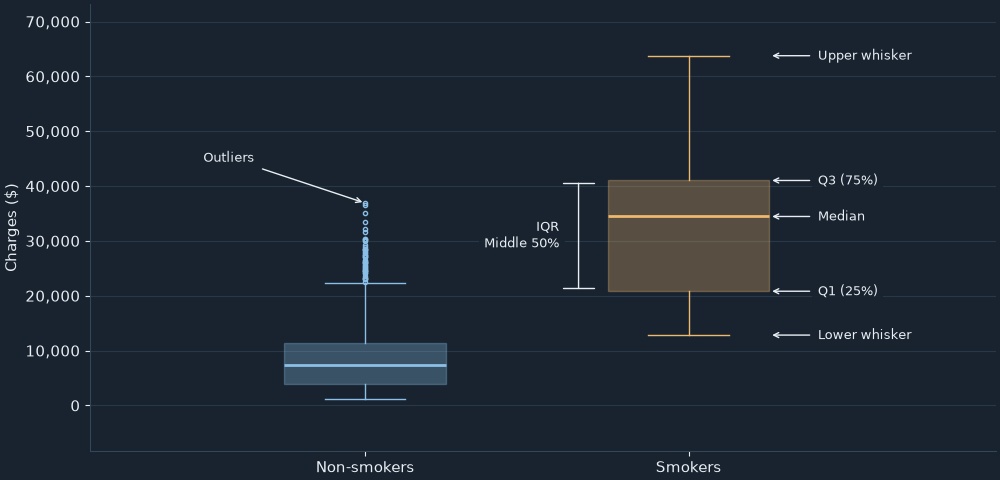
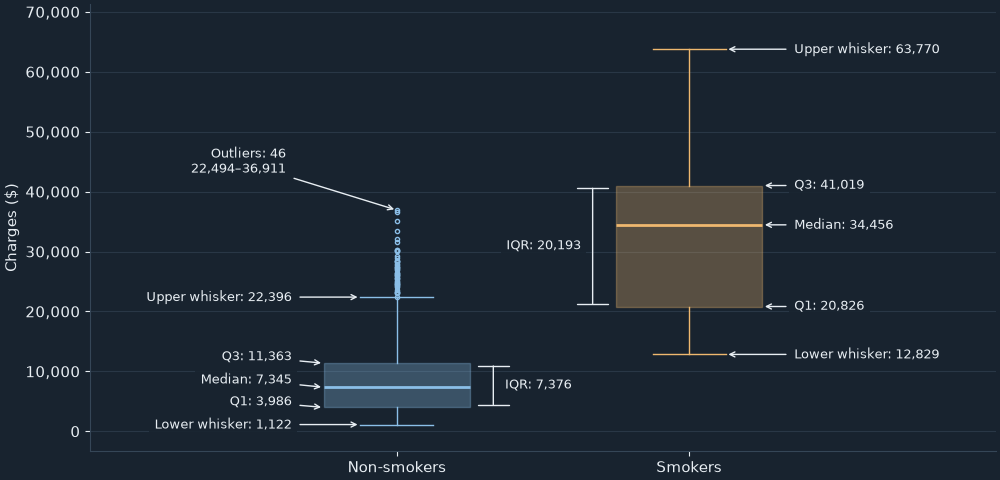
Show numeric boxplot values for both smoking groups

diff --git a/src/report.py b/src/report.py
@@ -143,38 +143,51 @@ def report_chart(frame, kind, dark=True):
                     )
                     q1, median, q3 = values.quantile([0.25, 0.5, 0.75])
                     plotted.append((q3 - q1, i, q1, median, q3, artists))
-            _, position, q1, median, q3, artists = max(plotted, key=lambda item: item[0])
-            low = artists['whiskers'][0].get_ydata()[-1]
-            high = artists['whiskers'][1].get_ydata()[-1]
             span = max(float(frame.charges.max() - frame.charges.min()), 1)
             arrow = {'arrowstyle': '->', 'color': text, 'linewidth': 1}
             label_box = {'facecolor': background, 'edgecolor': 'none', 'alpha': 0.9}
-            if q1 == q3:
-                ax.annotate(f"Q1 = median = Q3: {median:,.0f}", xy=(position, median),
-                            xytext=(position + 0.38, median + span * 0.12),
-                            color=text, fontsize=9, bbox=label_box, arrowprops=arrow)
-            else:
-                previous = -float('inf')
-                for title, y in [('Lower whisker', low), ('Q1 (25%)', q1),
-                                 ('Median', median), ('Q3 (75%)', q3), ('Upper whisker', high)]:
-                    label_y = max(y, previous + span * 0.065)
-                    ax.annotate(title, xy=(position + (0.125 if 'whisker' in title else 0.25), y),
-                                xytext=(position + 0.4, label_y), va='center',
+            top_label = float(frame.charges.max())
+            for iqr, position, q1, median, q3, artists in plotted:
+                low = artists['whiskers'][0].get_ydata()[-1]
+                high = artists['whiskers'][1].get_ydata()[-1]
+                side = -1 if position == 0 else 1
+                alignment = 'right' if side < 0 else 'left'
+                if q1 == q3:
+                    y = median + span * 0.12
+                    ax.annotate(f"Q1 = median = Q3: {median:,.0f}", xy=(position, median),
+                                xytext=(position + side * 0.36, y), ha=alignment,
                                 color=text, fontsize=9, bbox=label_box, arrowprops=arrow)
-                    previous = label_y
-                ax.annotate('', xy=(position - 0.34, q1), xytext=(position - 0.34, q3),
-                            arrowprops={'arrowstyle': '|-|', 'color': text})
-                ax.text(position - 0.4, (q1 + q3) / 2, 'IQR\nMiddle 50%',
-                        ha='right', va='center', color=text, fontsize=9, bbox=label_box)
-            for _, i, _, _, _, group_artists in plotted:
-                outliers = group_artists['fliers'][0].get_ydata()
+                    top_label = max(top_label, y)
+                else:
+                    previous = -float('inf')
+                    for title, value in [('Lower whisker', low), ('Q1', q1),
+                                         ('Median', median), ('Q3', q3), ('Upper whisker', high)]:
+                        label_y = max(value, previous + span * 0.06)
+                        edge = 0.125 if 'whisker' in title else 0.25
+                        ax.annotate(f"{title}: {value:,.0f}", xy=(position + side * edge, value),
+                                    xytext=(position + side * 0.36, label_y), va='center', ha=alignment,
+                                    color=text, fontsize=9, bbox=label_box, arrowprops=arrow)
+                        previous = label_y
+                        top_label = max(top_label, label_y)
+                    inner = -side
+                    ax.annotate('', xy=(position + inner * 0.33, q1),
+                                xytext=(position + inner * 0.33, q3),
+                                arrowprops={'arrowstyle': '|-|', 'color': text})
+                    ax.text(position + inner * 0.37, (q1 + q3) / 2, f'IQR: {iqr:,.0f}',
+                            ha='left' if inner > 0 else 'right', va='center',
+                            color=text, fontsize=9, bbox=label_box)
+                outliers = artists['fliers'][0].get_ydata()
                 if len(outliers):
                     y = float(max(outliers))
-                    ax.annotate('Outliers', xy=(i, y), xytext=(i - 0.5, y + span * 0.12),
-                                color=text, fontsize=9, bbox=label_box, arrowprops=arrow)
-            ax.margins(y=0.15)
+                    label_y = max(y + span * 0.1, top_label if position == 1 else y + span * 0.1)
+                    label = (f"Outliers: {len(outliers)}\n"
+                             f"{min(outliers):,.0f}–{max(outliers):,.0f}")
+                    ax.annotate(label, xy=(position, y), xytext=(position + side * 0.38, label_y),
+                                ha=alignment, color=text, fontsize=9, bbox=label_box, arrowprops=arrow)
+                    top_label = max(top_label, label_y)
+            ax.set_ylim(min(0, frame.charges.min() - span * 0.07), top_label + span * 0.12)
             ax.set_xticks([0, 1], ["Non-smokers", "Smokers"])
-            ax.set_xlim(-0.85, 1.95)
+            ax.set_xlim(-1.05, 2.05)
         elif kind in ["agechart", "bmichart"]:
             key = "age" if kind == "agechart" else "bmi"
             for group, colour, marker in [("no", blue, "o"), ("yes", orange, "^")]:

diff --git a/tests/test_report.py b/tests/test_report.py
@@ -148,8 +148,12 @@ def test_boxplot_labels_follow_selected_records():
     for selected in [frame, frame.loc[frame.smoker.eq('yes')]]:
         figure = report_chart(selected, 'box')
         labels = [item.get_text() for item in figure.axes[0].texts]
-        assert {'Lower whisker', 'Q1 (25%)', 'Median', 'Q3 (75%)', 'Upper whisker'}.issubset(labels)
-        assert 'IQR\nMiddle 50%' in labels
+        for _, group in selected.groupby('smoker'):
+            q1, median, q3 = group.charges.quantile([0.25, 0.5, 0.75])
+            assert f'Q1: {q1:,.0f}' in labels
+            assert f'Median: {median:,.0f}' in labels
+            assert f'Q3: {q3:,.0f}' in labels
+            assert f'IQR: {q3 - q1:,.0f}' in labels
         plt.close(figure)
     figure = report_chart(frame.head(1), 'box')
     assert 'Q1 = median = Q3:' in figure.axes[0].texts[0].get_text()

diff --git a/evidence/testing.md b/evidence/testing.md
@@ -46,4 +46,4 @@ The regression section is now titled “Predictive regression”. Its introducti
 
 ## Box-plot labels — 29 October 2026
 
-At the user's correction, the histogram was restored to its previous unannotated form with its median line. Labels are now inside the smoking box plot for Q1, median, Q3, lower/upper whiskers, the middle-50% IQR bracket and any outliers. Structural labels are attached to the selected group with the larger IQR to avoid duplicating them; outliers are labelled where present in either group. The single-value case uses one combined quartile/median label. Visual checks covered the full dataset in dark mode and a single-record selection in light mode. The updated test checks filtered box-plot labels, the single-record fallback and absence of histogram annotations.
+At the user's correction, the histogram was restored to its previous unannotated form with its median line. Labels are now inside the smoking box plot for Q1, median, Q3, lower/upper whiskers, the middle-50% IQR bracket and any outliers. Numeric labels are shown for both groups: Q1, median, Q3, actual lower/upper whisker endpoints and IQR. Outlier labels give the count and observed value range. The single-value case uses one combined quartile/median label. Visual checks covered the full dataset in dark mode and a single-record selection in light mode. The updated test checks filtered box-plot labels, the single-record fallback and absence of histogram annotations.
